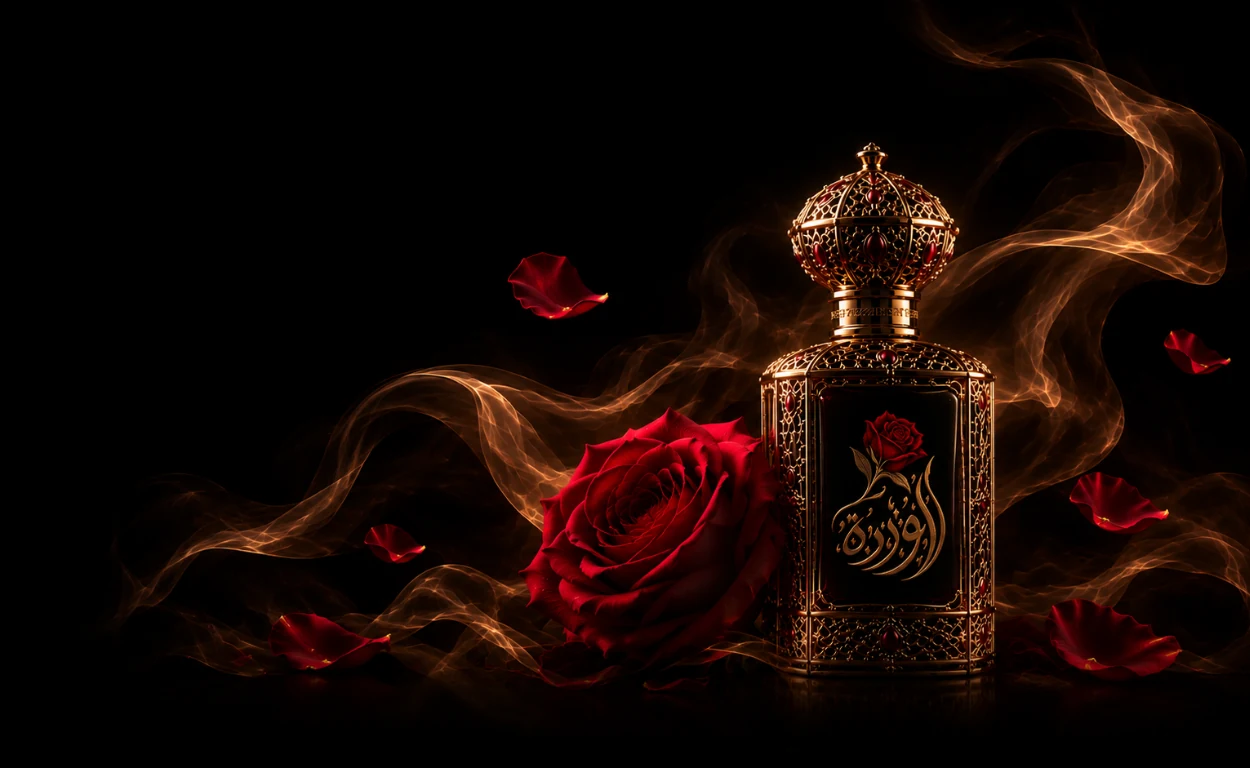
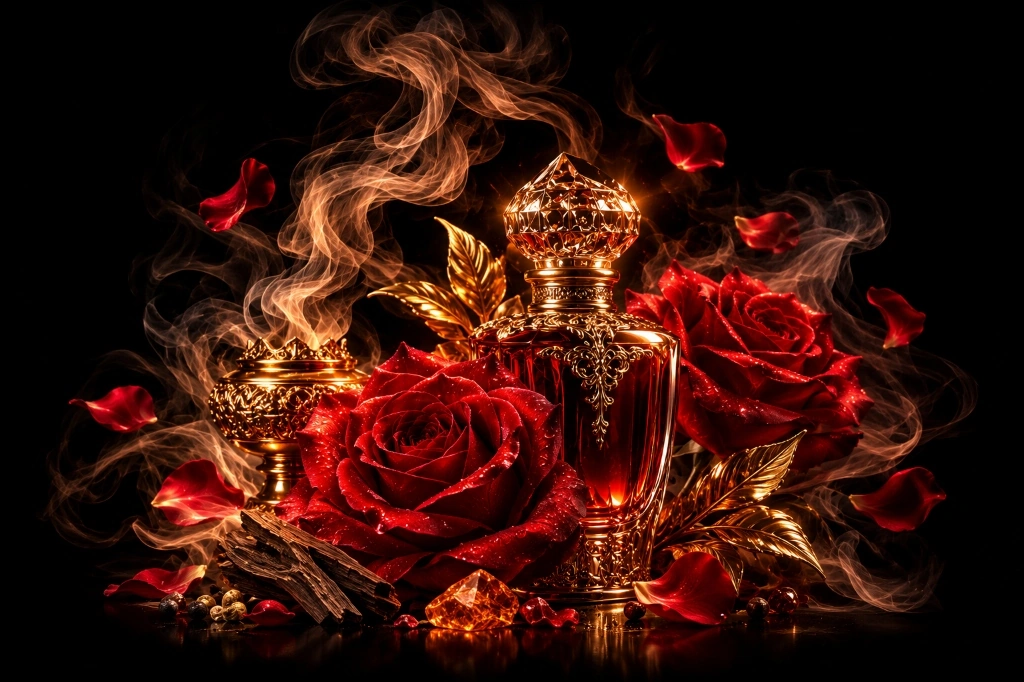
Update Home hero visual with new rose, oud smoke & golden flacon composition

diff --git a/Al-Warda/src/components/home/Home.jsx b/Al-Warda/src/components/home/Home.jsx
@@ -135,13 +135,13 @@ export default function Home() {
         <div className="warda-hero__visual">
           <div className="warda-hero__img-frame">
             <img
-              src="/assets/img/perfumes/al-warda-rose-smoke-cropped.webp"
+              src="/assets/img/perfumes/al-warda-rose-smoke-cropped.webp?v=20261108"
               alt="Al-Warda Royal Fragrance"
               className="warda-hero__img"
               loading="eager"
               fetchPriority="high"
-              width="1250"
-              height="768"
+              width="1024"
+              height="682"
             />
           </div>
         </div>
